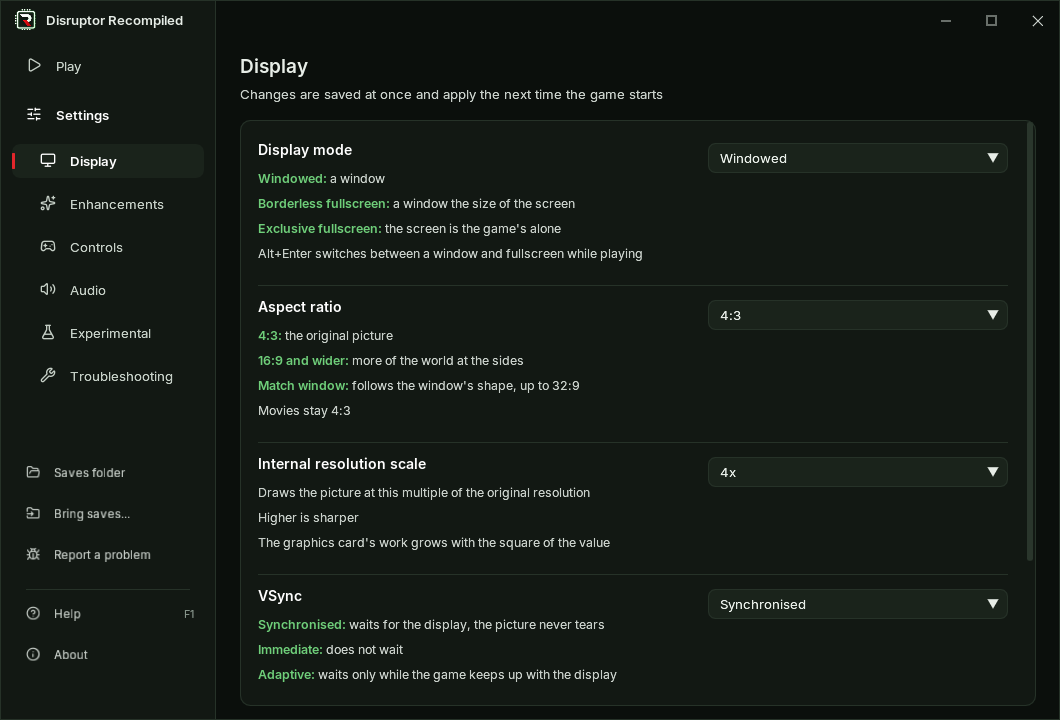
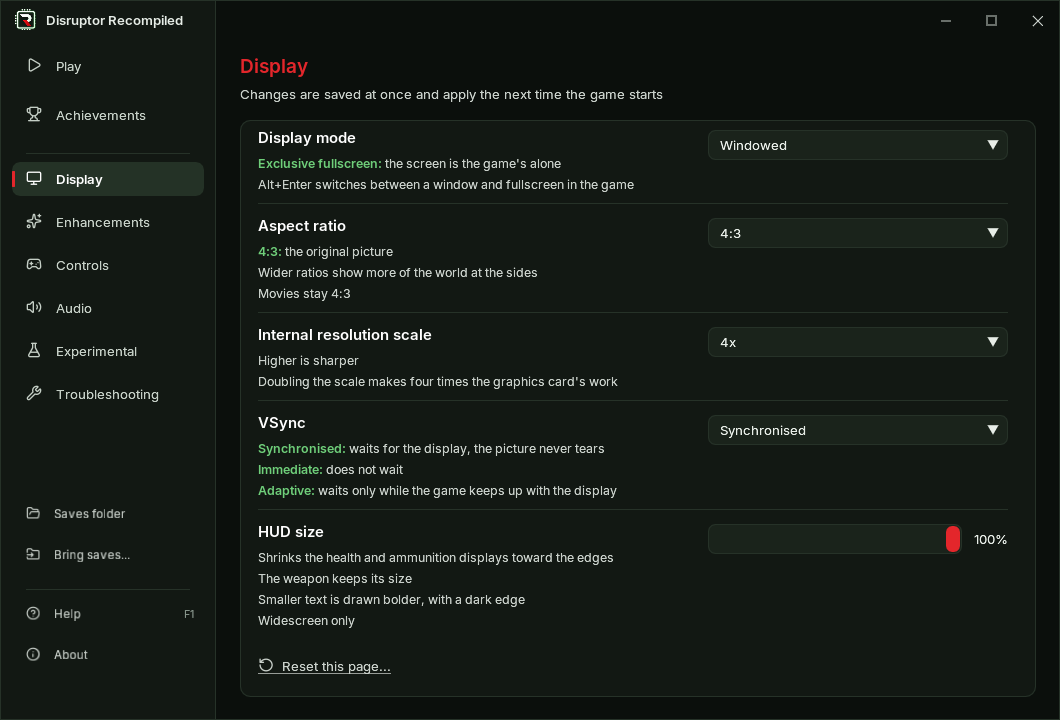
docs: add the 0.8.0 changelog

diff --git a/CHANGELOG.md b/CHANGELOG.md
@@ -2,6 +2,44 @@
 
 What changed in each release. The launcher shows the section of its own version on its home page.
 
+## v0.8.0
+
+### Changes
+
+- Cheats: the tab is gone from this release, God Mode and all weapons and psionics are no longer offered
+- Debug tab: Detailed logging and the capsules stay, Record the screen and the diagnostic views are left out
+- Experimental: the page holds a note for now, what is tried there comes in a later version
+- Anti-aliasing: moved from Experimental to Enhancements, in the launcher and in the game's menu
+- Ambient occlusion: strength 100% at first (it was 80%) and at most, reach at most 160, a saved value past the end is the default
+- Psionic keys use the power: off at first, it was on
+- Save states: those of 0.7.0 load as they are
+- Capsules: those of 0.7.0 load, but the game leaves their recording at once
+
+### Enhancements
+
+- RetroAchievements: the game counts Disruptor's 52 achievements, sign in on the launcher's new Achievements page
+- Unlock cards: picture, name and points in a corner with a chime or a WAV of your own, for 3 to 30 seconds
+- Achievements tab: every achievement with its progress in the game's menu, with Sign out and the profile link
+- Save states: keep how far each achievement has counted
+- Launcher keyboard: Tab and the arrows move, Space or Enter presses, Escape goes back to the side bar
+- Launcher gamepad: the D-pad moves, A presses, B goes back, LB and RB change pages
+- Launcher pages: a column in the middle of a wide window, each keeps its scroll
+- Controls hints: a choice's name stands in a column of its own, one fact a line beside it
+- Settings file: one that cannot be read is named on the page, with Start over with defaults
+- HUD text: bolder with a dark edge below HUD size 100
+- Mission 9: the countdown stays while a list is open, and the list shows the chosen name too
+- Psionic keys: a key uses its power 9 to 13 frames after the press instead of 21 to 23
+
+### Bug fixes
+
+- Mission 9: under 60 FPS the teleport comes before the explosion again (#51)
+- Mission 9: the countdown no longer flickers with a pickup's message under 60 FPS (#51)
+- Sounds: no longer cut at half their length under 60 FPS, the reactor says its whole line
+- Abort mission: the world no longer flashes behind the darkening pause screen
+- Mission 9's end: the "0 SECONDS" line no longer blinks while the screen fades
+- Lists: a list's name no longer shows a frame before its box
+- Menu demo: the mouse no longer turns its camera and number keys no longer change its weapon
+
 ## v0.7.0
 
 ### Changes

diff --git a/README.md b/README.md
@@ -30,9 +30,9 @@
 
 ## Launcher
 
-- Drop your disc image on the window and press **Play**.
-- Updates install with one click and keep your saves and settings.
-- Sign in to [RetroAchievements](docs/PLAYING.md#retroachievements) and the game counts its 52 achievements, in casual for now.
+- Drop your disc image on the window and press **Play**
+- Updates install with one click and keep your saves and settings
+- Sign in to [RetroAchievements](docs/PLAYING.md#retroachievements) and the game counts its 52 achievements
 
 <table>
   <tr>
@@ -59,6 +59,18 @@
       Click an action, press the new key
     </td>
   </tr>
+  <tr>
+    <td valign="top">
+      <img src="docs/images/achievements.png" alt="The Achievements page" width="100%"><br>
+      <b>Achievements</b><br>
+      Sign in to RetroAchievements, choose how unlocks show
+    </td>
+    <td valign="top">
+      <img src="docs/images/audio.png" alt="The Audio page" width="100%"><br>
+      <b>Audio</b><br>
+      Volume, the bass, muting in the background
+    </td>
+  </tr>
 </table>
 
 ## Settings
@@ -81,9 +93,9 @@
 | | Ambient occlusion | Off | Shaded corners and floors under things |
 | **Controls** | Control scheme | Modern | WASD and the mouse, or the original keys |
 | | Weapon and psionic keys | Off | Two keys a weapon or power, 1 to 9 and 0 at first |
-| | Psionic keys use the power | On | A power's key uses the power too, once it is in hand, which comes twice as fast |
+| | Psionic keys use the power | Off | A power's key uses the power too, once it is in hand, which comes twice as fast |
 | | Weapon and psionic wheels | Off | **EXPERIMENTAL** Choose a weapon or a psionic on a wheel instead of the game's list |
-| | Vertical mouse look | Off | **EXPERIMENTAL** Looks up and down with the mouse, which the original cannot |
+| | Vertical mouse look | Off | **EXPERIMENTAL** Looks up and down with the mouse |
 | **And more** | | | HUD size, VSync, mouse sensitivity, gamepad buttons, the bass of the sound, a skip of the intro and others, all in the [player's guide](docs/PLAYING.md#settings) |
 
 ---
